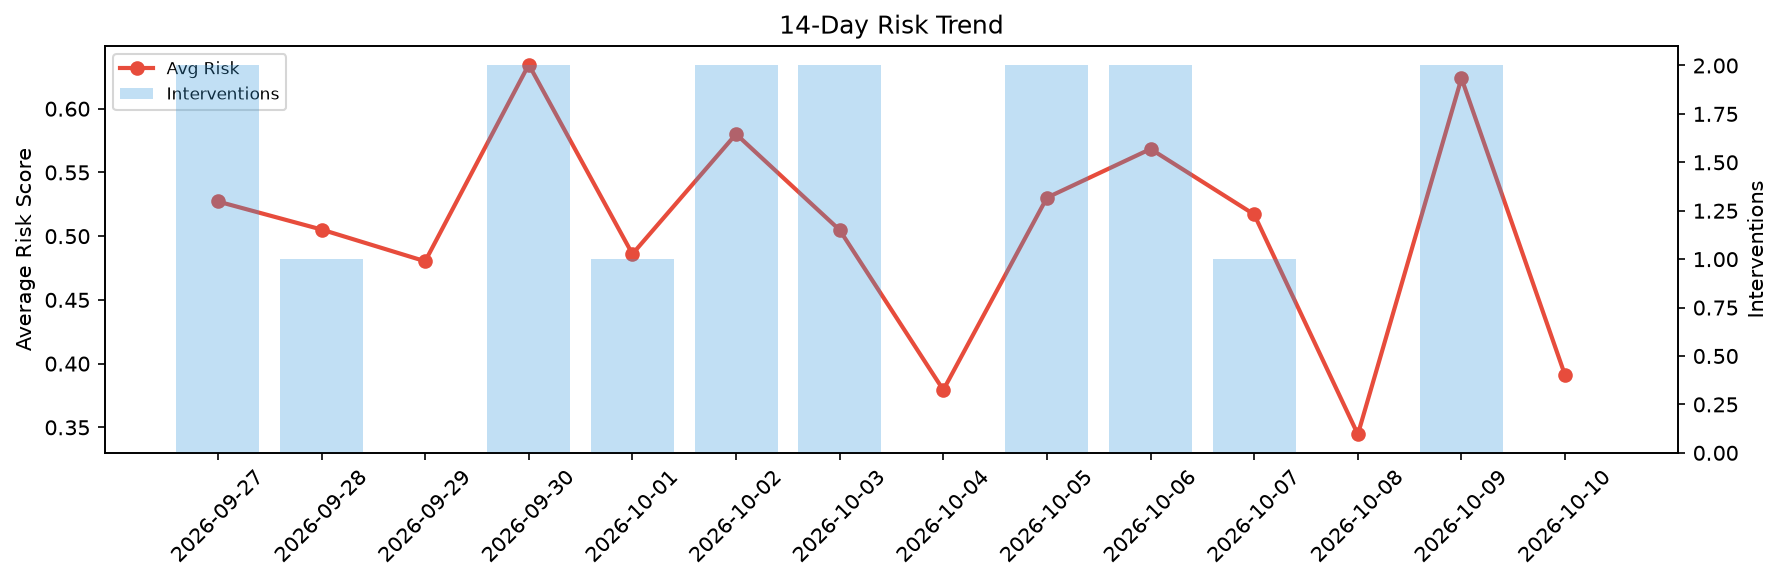
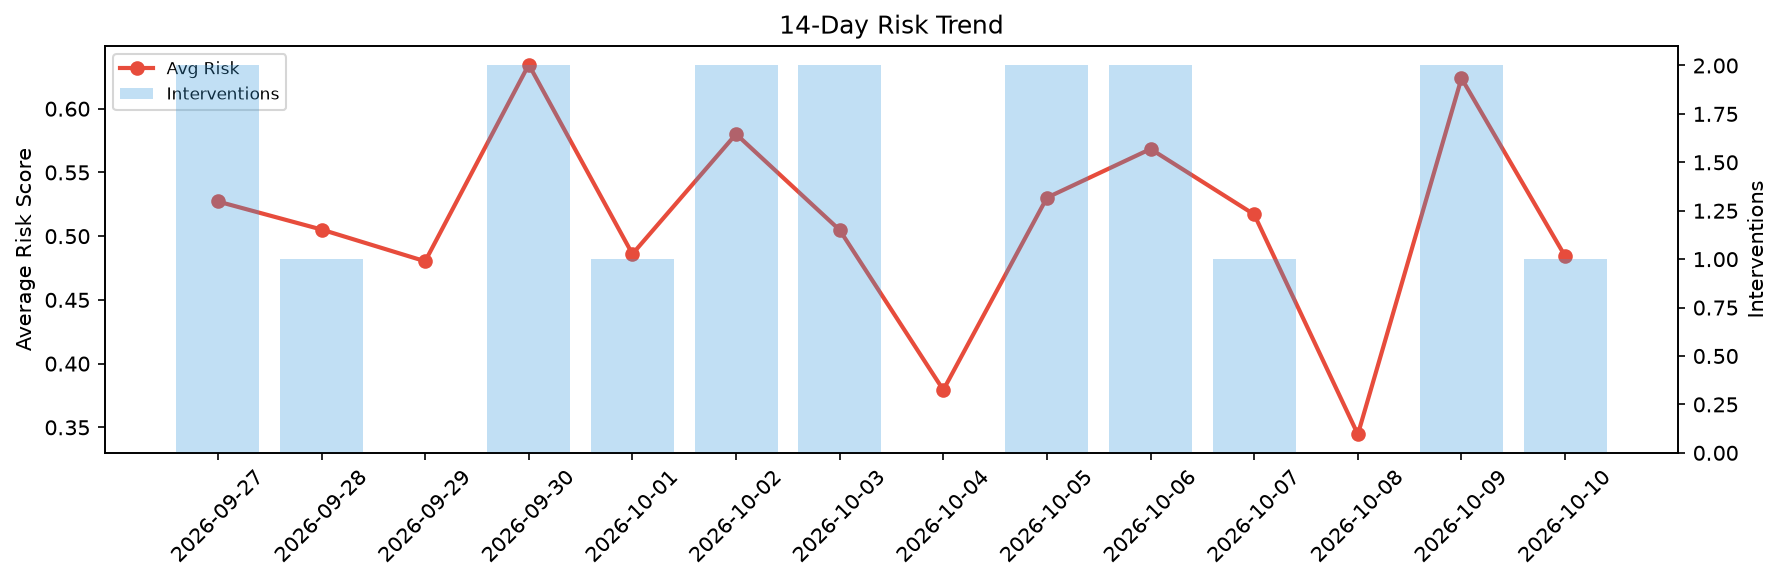
agent-improvement: daily cycle 2026-10-10T14:28

Changed region(s): [[0.8329, 0.3711, 0.9254, 0.8041], [0.8329, 0.2165, 0.8637, 0.3711], [0.802, 0.1546, 0.8329, 0.2165]]

diff --git a/logs/2026-10-10.md b/logs/2026-10-10.md
@@ -1,6 +1,6 @@
 # Agent Improvement Report — 2026-10-10
 
-**Cycle ID:** `4cf2f78a` | **Avg Risk:** 0.3907 | **Interventions:** 0/4
+**Cycle ID:** `157cb2cc` | **Avg Risk:** 0.4843 | **Interventions:** 1/4
 
 ![Dashboard](2026-10-10_dashboard.png)
 
@@ -10,18 +10,18 @@
 
 | Domain | Risk Score | Decision | Alerts |
 |--------|-----------|----------|--------|
-| code_review | 0.3584 | monitor | none |
-| incident_response | 0.4497 | monitor | none |
-| data_pipeline | 0.3261 | monitor | none |
-| deployment | 0.4284 | monitor | canary_error |
+| code_review | 0.5483 | monitor | coverage |
+| incident_response | 0.4192 | monitor | none |
+| data_pipeline | 0.6291 | intervene | none |
+| deployment | 0.3407 | monitor | none |
 
 ## Delta vs Yesterday
 
 | Domain | Today | Yesterday | Change |
 |--------|-------|-----------|--------|
-| code_review | 0.3584 | 0.7127 | 📉 -49.7% |
-| incident_response | 0.4497 | 0.51 | 📉 -11.8% |
-| data_pipeline | 0.3261 | 0.4183 | 📉 -22.0% |
-| deployment | 0.4284 | 0.8544 | 📉 -49.9% |
+| code_review | 0.5483 | 0.7127 | 📉 -23.1% |
+| incident_response | 0.4192 | 0.51 | 📉 -17.8% |
+| data_pipeline | 0.6291 | 0.4183 | 📈 50.4% |
+| deployment | 0.3407 | 0.8544 | 📉 -60.1% |
 
-**Refinement:** `{'adjustment': 'tighten_thresholds', 'trend': 'degrading', 'window': 4}`
+**Refinement:** `{'adjustment': 'maintain', 'trend': 'improving', 'window': 4}`
